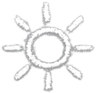
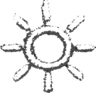
feat: обновить рисованное солнце
Заменить символ эффектов новым присланным вариантом и сохранить контраст на обоих фонах.

Changed region(s): [[0.0, 0.0, 1.0, 1.0], [0.8438, 0.4731, 0.9375, 0.4946]]

diff --git a/public/editorial.html b/public/editorial.html
@@ -152,10 +152,9 @@
       width: 27px;
       height: 27px;
       object-fit: contain;
+      filter: brightness(0) invert(1);
     }
-    .telegram-icon-image { filter: brightness(0) invert(1); }
-    body.paper-beige .header-icon-image { filter: invert(1); }
-    body.paper-beige .telegram-icon-image { filter: brightness(0); }
+    body.paper-beige .header-icon-image { filter: brightness(0); }
     .header-icon:hover,
     .header-icon[aria-expanded="true"] {
       color: var(--text);